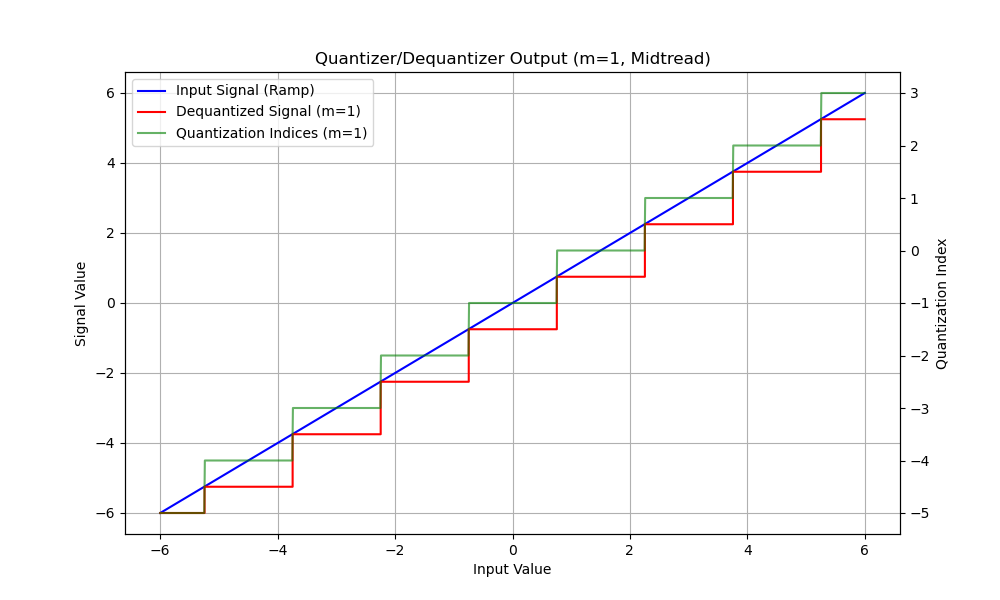
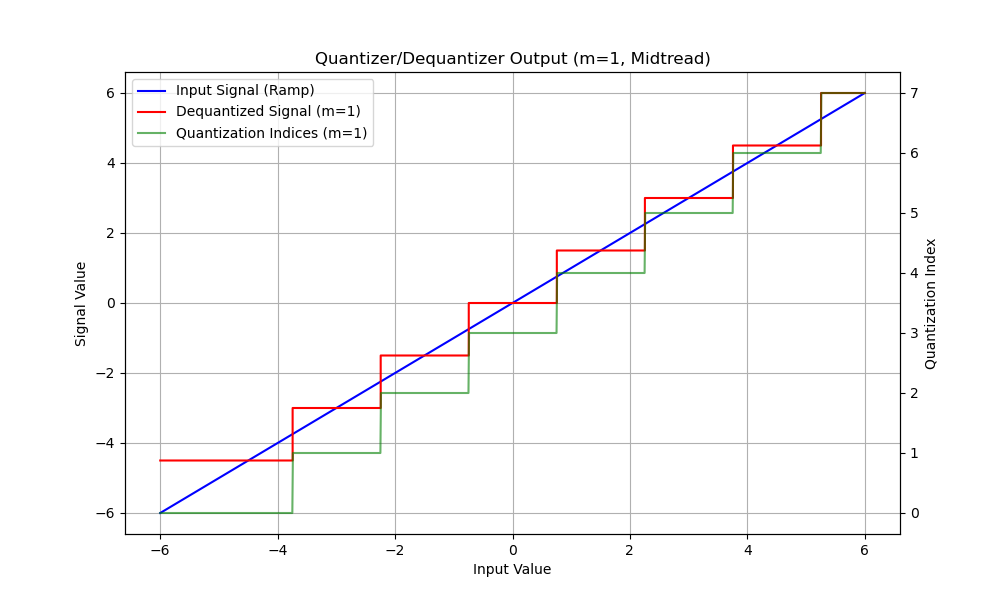
final changes

diff --git a/assignment_one/processing.py b/assignment_one/processing.py
@@ -1,58 +1,58 @@
 import numpy as np
 
 
-def uniform_quantizer(in_val: np.ndarray, n: int, x_max: float, m: int) -> np.ndarray:
+def uniform_quantizer(in_val: np.ndarray, n_bits: int, x_max: float, m: int) -> np.ndarray:
     """
     Quantizes an input signal using a uniform quantizer.
 
     Parameters:
-        in_val(ndarray): Input sample(s) to be quantized.
-        n_bits(int): Number of bits for quantization(defines the number of levels, L=2**n_bits).
-        xmax(float): Maximum absolute value that can be represented.
-        m(int): Offset parameter; m = 0 for midrise and m = 1 for midtread quantizer.
+        in_val (ndarray): Input sample(s) to be quantized.
+        n_bits (int): Number of bits for quantization (defines the number of levels, L=2**n_bits).
+        x_max (float): Maximum absolute value that can be represented.
+        m (int): Offset parameter; m = 0 for midrise and m = 1 for midtread quantizer.
 
     Returns:
         ndarray: Quantization indices corresponding to the input samples.
     """
-    L = pow(2, n)
+    L = 2**n_bits
     delta = 2 * x_max / L
     offset = m * delta / 2
     
-    # return quantized_values
-        # Clip input to range [-x_max, x_max] to avoid overflow
+
     in_val = np.clip(in_val, -x_max, x_max)
-    quantized_values =  np.floor((in_val - offset) / delta).astype(int)
-    # # Compute quantized index (floor for midrise, round for midtread)
-    # if m == 0:  # Midrise
-    #     q_ind = np.floor((in_val - offset) / delta)
-    # else:  # Midtread
-    #     q_ind = np.round((in_val - offset) / delta)
+    
+  
+    q_ind = np.floor((in_val + x_max - offset) / delta).astype(int)
+    
+ 
+    q_ind = np.clip(q_ind, 0, L - 1)
+    
+    return q_ind
 
-
-    return quantized_values
-
-
-def uniform_dequantizer(q_val: np.ndarray, n: int, x_max: float, m: int) -> np.ndarray:
+def uniform_dequantizer(q_ind: np.ndarray, n_bits: int, x_max: float, m: int) -> np.ndarray:
     """
     Dequantizes an input signal using a uniform dequantizer.
 
     Parameters:
-        q_val(ndarray): Input sample(s) to be dequantized.
-        n_bits(int): Number of bits for quantization(defines the number of levels, L=2**n_bits).
-        xmax(float): Maximum absolute value that can be represented.
-        m(int): Offset parameter; m = 0 for midrise and m = 1 for midtread quantizer.
+        q_ind (ndarray): Quantization indices to be dequantized.
+        n_bits (int): Number of bits for quantization (defines the number of levels, L=2**n_bits).
+        x_max (float): Maximum absolute value that can be represented.
+        m (int): Offset parameter; m = 0 for midrise and m = 1 for midtread quantizer.
 
     Returns:
-        ndarray: Dequantization indices corresponding to the quantized samples.
+        ndarray: Dequantized values corresponding to the quantization indices.
     """
-    L = pow(2, n)
+    L = 2**n_bits
     delta = 2 * x_max / L
     offset = m * delta / 2
-    org_values = q_val * delta + offset
+    
 
-    org_values = np.clip(org_values, -x_max, x_max)
-    return org_values
+    deq_val =  q_ind * delta - x_max + offset + delta / 2
+    
 
+    deq_val = np.clip(deq_val, -x_max, x_max)
+    
+    return deq_val
 
 def expand(signal: np.ndarray, m: float):
     """

diff --git a/assignment_one/testing.py b/assignment_one/testing.py
@@ -72,7 +72,7 @@ def random_test():
 
     for n in n_bits_values:
         q_sample = uniform_quantizer(uniform_random_variables, n, x_max, 0)
-        deq_sample = uniform_dequantizer(q_sample, n, 5, 0)
+        deq_sample = uniform_dequantizer(q_sample, n, x_max, 0)
         error_power = np.mean((uniform_random_variables - deq_sample) ** 2)
         snr_simulation_db = 10 * np.log10(input_power / error_power)
         snr_sim_db.append(snr_simulation_db)
